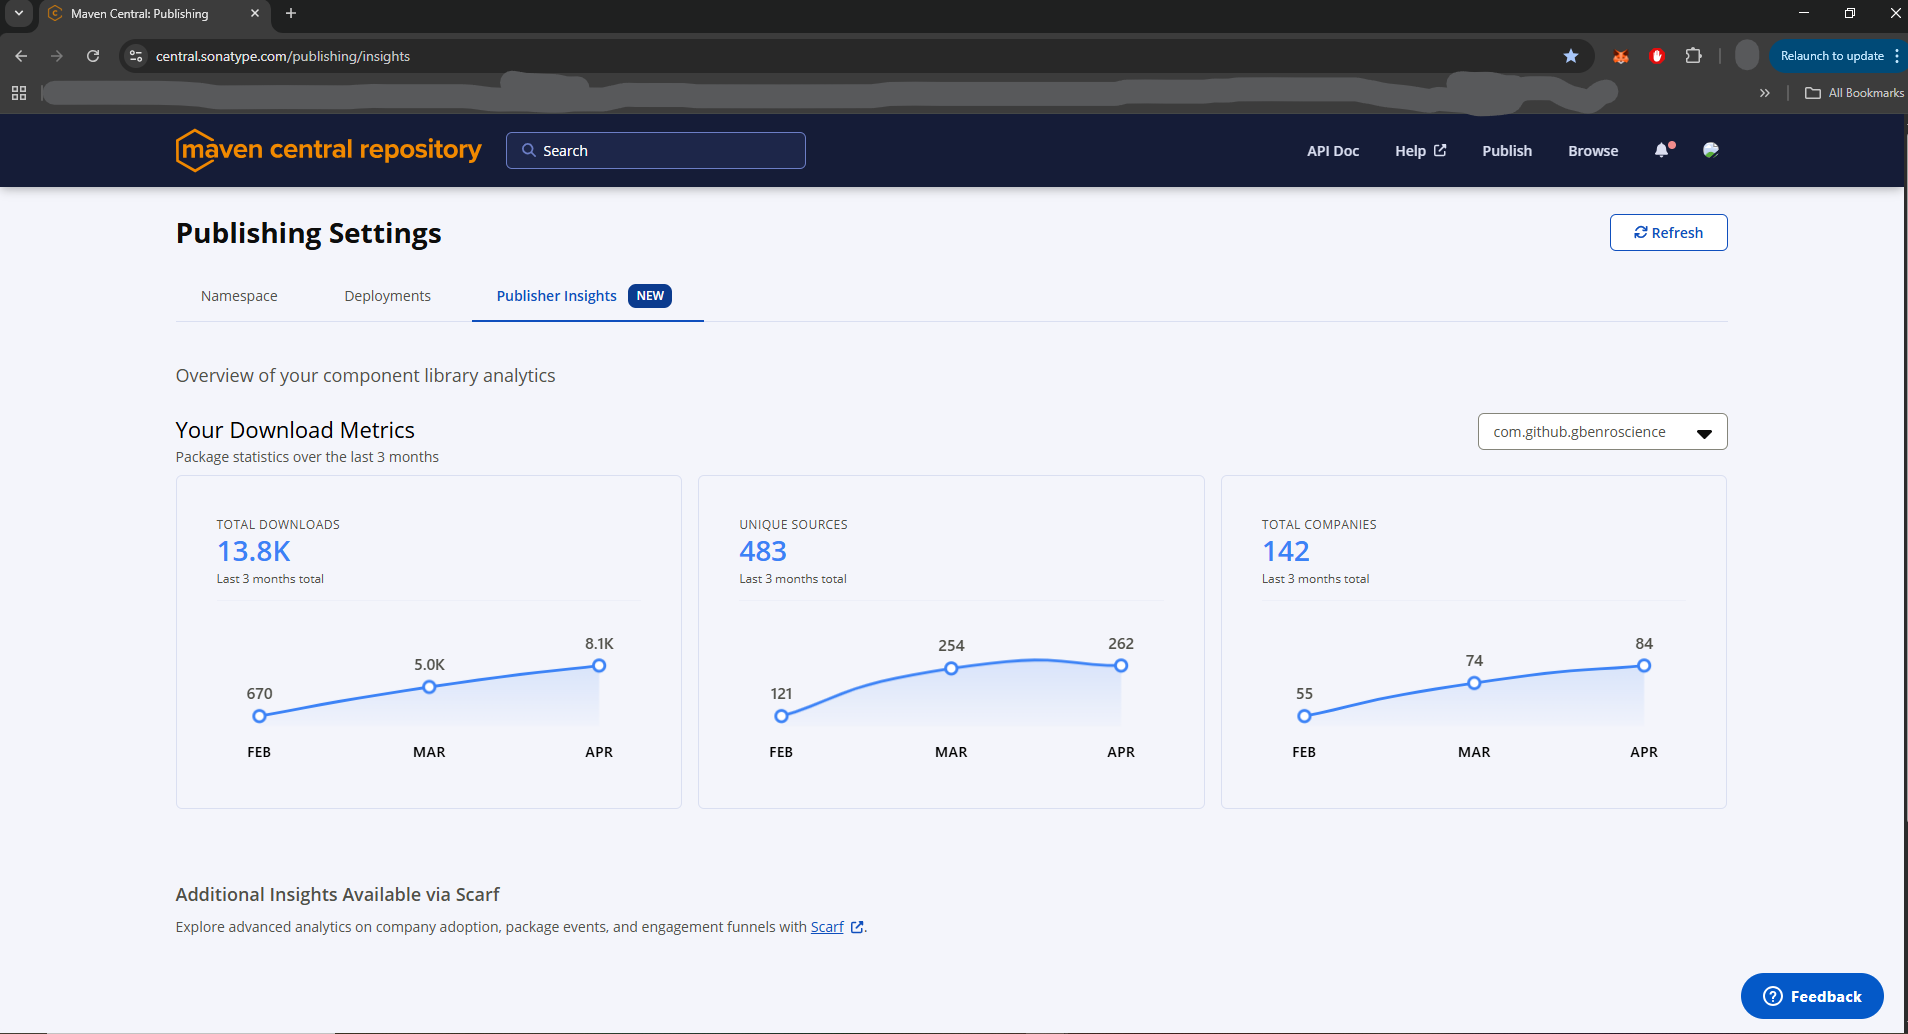
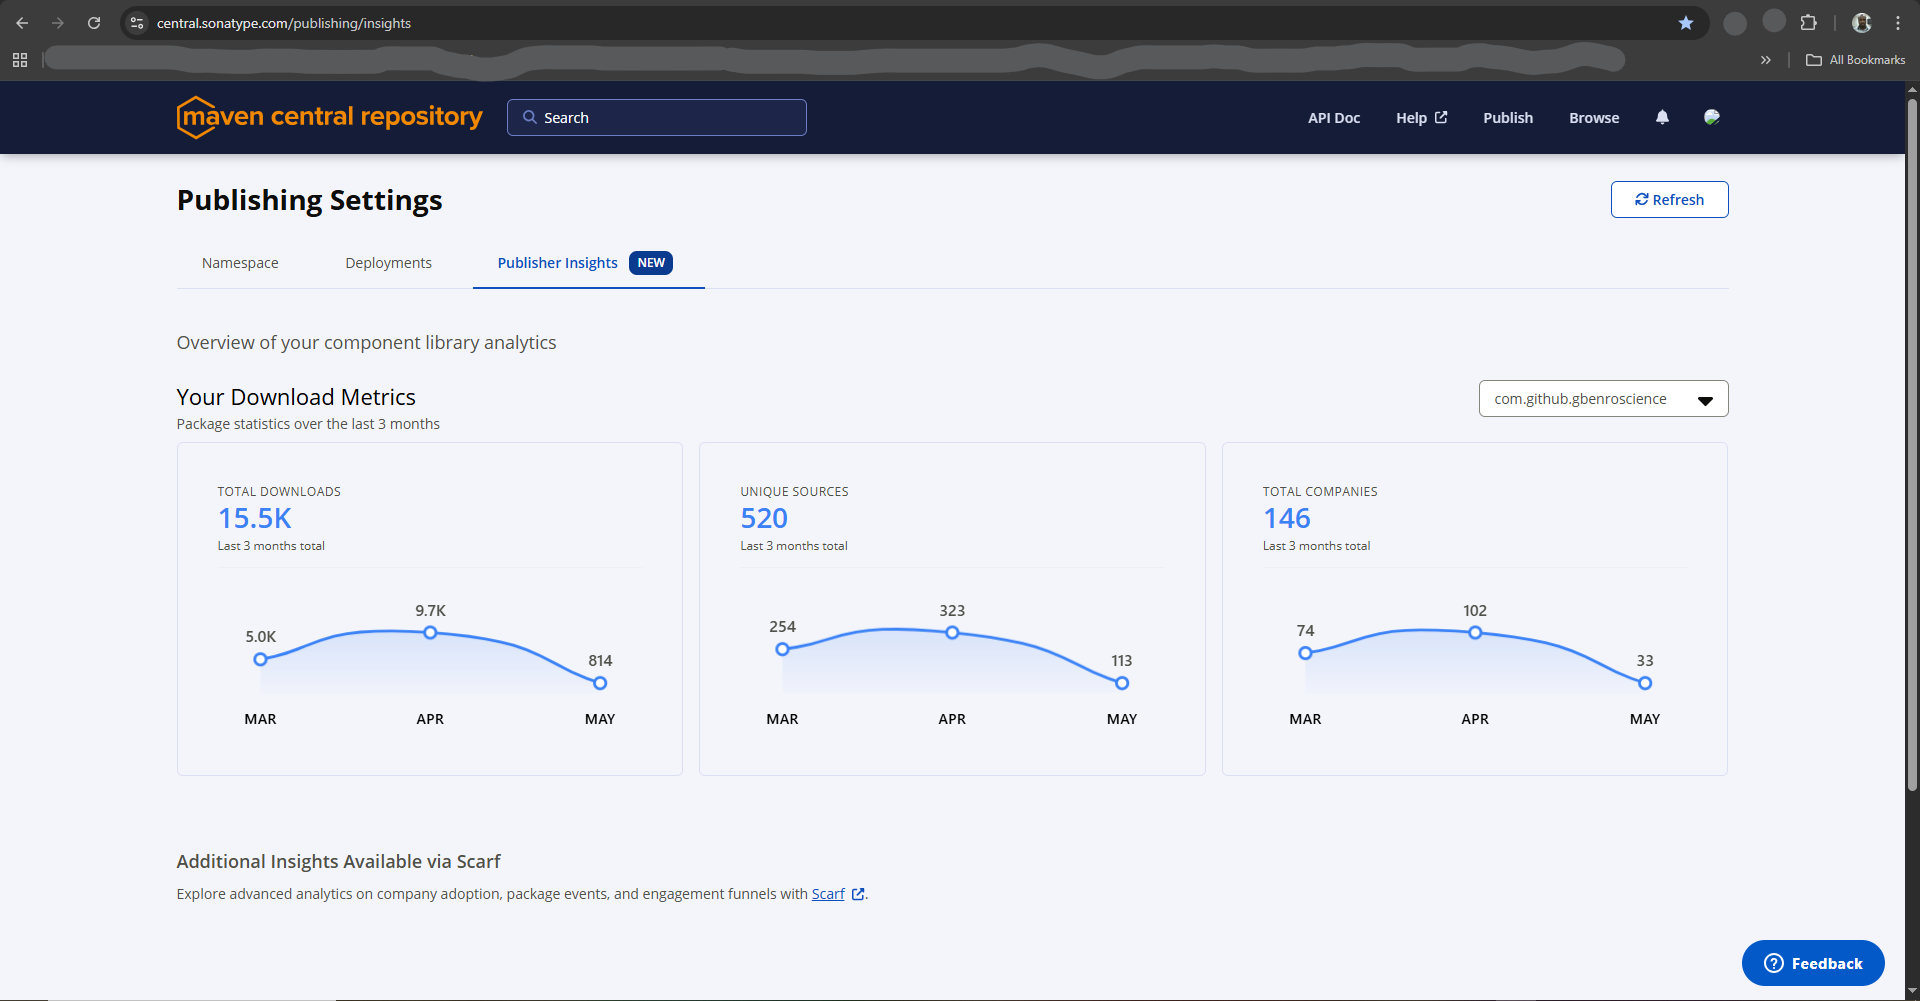
updated monthly-data.png

diff --git a/src/main/java/com/github/gbenroscience/parser/turbo/tools/FlatMatrixTurboBench.java b/src/main/java/com/github/gbenroscience/parser/turbo/tools/FlatMatrixTurboBench.java
@@ -39,6 +39,7 @@ public class FlatMatrixTurboBench {
         System.out.println("PARSERNG FLAT-ARRAY MATRIX TURBO BENCHMARKS");
         System.out.println(rpt);
         checkTurboUserDefinedFunctionsInMatrixMode();
+        checkTurboUserDefinedFunctionsWithAndroidCapableMatrixTurboEvaluatorInMatrixMode();
         checkMatrixInvertPreMulErrors();
         checkMatrixDiv();
         checkMatrixPowerFunction();
@@ -61,6 +62,8 @@ public class FlatMatrixTurboBench {
     }
 
     private static void checkTurboUserDefinedFunctionsInMatrixMode() throws Throwable {
+        
+        System.out.println("=====================MATRIX-BENCHING-checkTurboUserDefinedFunctionsInMatrixMode()============================");
         /*
         String expr="sin(3*x)+cos(5*y)-sin(2*z^2)";
         String fnCall="f(x,y,z)";
@@ -207,6 +210,160 @@ public class FlatMatrixTurboBench {
         System.out.println("=================SPEED-UP-ZONE================");
         System.out.printf("Matrix-Turbo-fn vs Standard-fn:              %.1fx%n", (double) duration1 / duration3);
         System.out.printf("Matrix-Turbo-raw-exp vs Standard-raw-exp     %.1fx%n", (double) duration2 / duration4);
+        System.out.printf("Scalar-Turbo1-fn vs Standard-fn:     %.1fx%n", (double) duration1 / duration5);
+        System.out.printf("Scalar-Turbo1-raw-exp vs Standard-raw-exp:     %.1fx%n", (double) duration2 / duration6);
+        System.out.printf("Scalar-Turbo2-fn vs Standard-fn:     %.1fx%n", (double) duration1 / duration7);
+        System.out.printf("Scalar-Turbo2-raw-exp vs Standard-raw-exp:     %.1fx%n", (double) duration2 / duration8);
+    }
+    private static void checkTurboUserDefinedFunctionsWithAndroidCapableMatrixTurboEvaluatorInMatrixMode() throws Throwable {
+        
+        System.out.println("=====================ANDROID-CAPABLE-MATRIX-BENCHING-checkTurboUserDefinedFunctionsWithAndroidCapableMatrixTurboEvaluatorInMatrixMode()============================");
+        /*
+        String expr="sin(3*x)+cos(5*y)-sin(2*z^2)";
+        String fnCall="f(x,y,z)";
+        String fnDef=fnCall+"="+expr;
+        */
+        
+         String expr = "sin(sqrt(x^2+y^2+z^2))";
+        String fnCall="f(x,y,z)";
+        String fnDef=fnCall+"="+expr;
+        
+        MathExpression baseFnDef = new MathExpression(fnDef+";"+fnCall);
+        AndroidCapableMatrixTurboEvaluator matrixTurboCompilerForBaseFn = new AndroidCapableMatrixTurboEvaluator(baseFnDef);
+        ScalarTurboEvaluator1 turboCompiler1ForFn = new ScalarTurboEvaluator1(baseFnDef);
+        MathExpression rawMathDef = new MathExpression(expr);
+        AndroidCapableMatrixTurboEvaluator matrixTurboCompilerForRawMathExp = new AndroidCapableMatrixTurboEvaluator(rawMathDef);
+        ScalarTurboEvaluator1 turboCompiler1ForRawMathExp = new ScalarTurboEvaluator1(rawMathDef);
+
+        ScalarTurboEvaluator2 turboCompiler2ForFn = new ScalarTurboEvaluator2(baseFnDef);
+        ScalarTurboEvaluator2 turboCompiler2ForRawMathExp = new ScalarTurboEvaluator2(rawMathDef);
+
+        FastCompositeExpression matrixTurboExecForBaseFn = matrixTurboCompilerForBaseFn.compile();
+        FastCompositeExpression matrixTurboExecForRawMathExp = matrixTurboCompilerForRawMathExp.compile();
+        FastCompositeExpression scalarTurboExecForBaseFn = turboCompiler1ForFn.compile();
+        FastCompositeExpression scalarTurboExecForRawMathExp = turboCompiler1ForRawMathExp.compile();
+        FastCompositeExpression scalarTurbo2ExecForBaseFn = turboCompiler2ForFn.compile();
+        FastCompositeExpression scalarTurbo2ExecForRawMathExp = turboCompiler2ForRawMathExp.compile();
+
+        double v = -100;
+        double iterations = 50_000_000;
+
+        System.out.println("=============Execute f(x,y,z)-IN-STD-MODE================");
+        int xSlot = baseFnDef.getVariable("x").getFrameIndex();
+        int ySlot = baseFnDef.getVariable("y").getFrameIndex();
+        int zSlot = baseFnDef.getVariable("z").getFrameIndex();
+        long strt = System.nanoTime();
+        for (int i = 0; i < iterations; i++) {
+            baseFnDef.updateSlot(xSlot, i % 9);
+            baseFnDef.updateSlot(ySlot, i % 8);
+            baseFnDef.updateSlot(zSlot, i % 9 - 2);
+            v = baseFnDef.solveGeneric().scalar;
+        }
+        long duration1 = System.nanoTime() - strt;
+        System.out.println("waste-product of standard-base-fn-exec---" + v);
+
+        System.out.println("=============Execute sin(3*x)+cos(5*y)-sin(2*z^2) -IN-STD-MODE================");
+
+        strt = System.nanoTime();
+        for (int i = 0; i < iterations; i++) {
+            rawMathDef.updateSlot(xSlot, i % 9);
+            rawMathDef.updateSlot(ySlot, i % 8);
+            rawMathDef.updateSlot(zSlot, i % 9 - 2);
+            v = rawMathDef.solveGeneric().scalar;
+        }
+        long duration2 = System.nanoTime() - strt;
+        System.out.println("waste-product of standard-raw-math-exp-exec--- " + v);
+
+        System.out.println("=============BASE-FN-DEF-EXECUTED-MATRIX-TURBO-MODE (f(x,y,z))================");
+
+        double[] vars = {0, 0, 0};
+
+        strt = System.nanoTime();
+        for (int i = 0; i < iterations; i++) {
+            vars[0] = i % 9;
+            vars[1] = i % 8;
+            vars[2] = i % 9 - 2;
+            v = matrixTurboExecForBaseFn.applyScalar(vars);
+        }
+        long duration3 = System.nanoTime() - strt;
+        System.out.println("waste-product of matrix-turbo-base-fn---" + v);
+
+        System.out.println("=============RAW-MATH-EXP-EXECUTED-MATRIX-TURBO-MODE (sin(3*x)+cos(5*y)-sin(2*z^2))================");
+        strt = System.nanoTime();
+        for (int i = 0; i < iterations; i++) {
+            vars[0] = i % 9;
+            vars[1] = i % 8;
+            vars[2] = i % 9 - 2;
+            v = matrixTurboExecForRawMathExp.applyScalar(vars);
+        }
+        long duration4 = System.nanoTime() - strt;
+        System.out.println("waste-product of matrix-turbo-raw-math-exp---" + v);
+
+        System.out.println("=============BASE-FN-DEF-EXECUTED-SCALAR-TURBO-1-MODE================");
+        strt = System.nanoTime();
+        for (int i = 0; i < iterations; i++) {
+            vars[0] = i % 9;
+            vars[1] = i % 8;
+            vars[2] = i % 9 - 2;
+            v = scalarTurboExecForBaseFn.applyScalar(vars);
+        }
+        long duration5 = System.nanoTime() - strt;
+        System.out.println("waste-product of scalar-turbo1-base-fn-exec---" + v);
+
+        System.out.println("=============RAW-MATH-EXP-EXECUTED-SCALAR-TURBO-1-MODE================");
+        strt = System.nanoTime();
+        for (int i = 0; i < iterations; i++) {
+            vars[0] = i % 9;
+            vars[1] = i % 8;
+            vars[2] = i % 9 - 2;
+            v = scalarTurboExecForRawMathExp.applyScalar(vars);
+        }
+        long duration6 = System.nanoTime() - strt;
+        System.out.println("waste-product of scalar-turbo1-raw-exp-exec---" + v);
+
+        System.out.println("=============BASE-FN-DEF-EXECUTED-SCALAR-TURBO-2-MODE================");
+        strt = System.nanoTime();
+        for (int i = 0; i < iterations; i++) {
+            vars[0] = i % 9;
+            vars[1] = i % 8;
+            vars[2] = i % 9 - 2;
+            v = scalarTurbo2ExecForBaseFn.applyScalar(vars);
+        }
+        long duration7 = System.nanoTime() - strt;
+        System.out.println("waste-product of scalar-turbo2-fn---" + v);
+
+        System.out.println("=============RAW-MATH-EXP-EXECUTED-SCALAR-TURBO-2-MODE================");
+        strt = System.nanoTime();
+        for (int i = 0; i < iterations; i++) {
+            vars[0] = i % 9;
+            vars[1] = i % 8;
+            vars[2] = i % 9 - 2;
+            v = scalarTurbo2ExecForRawMathExp.applyScalar(vars);
+        }
+        long duration8 = System.nanoTime() - strt;
+        System.out.println("waste-product of scalar-turbo2-raw-exp-exec---" + v);
+
+        System.out.printf("Expressions: %s and %s %n", baseFnDef.getExpression(), rawMathDef.getExpression());
+        System.out.printf("Value =  %.18f%n", v);
+        System.out.printf("Speed-standard-fn: %.2f ns/op%n", duration1 / iterations);
+        System.out.printf("Speed-standard-raw-exp: %.2f ns/op%n", duration2 / iterations);
+        System.out.printf("Speed-android-capable-matrix-turbo-fn: %.2f ns/op%n", duration3 / iterations);
+        System.out.printf("Speed-android-capable-matrix-turbo-raw-exp: %.2f ns/op%n", duration4 / iterations);
+        System.out.printf("Speed-scalar-turbo1-fn: %.2f ns/op%n", duration5 / iterations);
+        System.out.printf("Speed-scalar-turbo1-raw-exp: %.2f ns/op%n", duration6 / iterations);
+        System.out.printf("Speed-scalar-turbo2-fn: %.2f ns/op%n", duration7 / iterations);
+        System.out.printf("Speed-scalar-turbo2-raw-exp: %.2f ns/op%n", duration8 / iterations);
+        System.out.printf("Throughput-standard-fn: %.2f ops/sec%n", iterations / (duration1 / 1e9));
+        System.out.printf("Throughput-standard-raw-exp: %.2f ops/sec%n", iterations / (duration2 / 1e9));
+        System.out.printf("Throughput-android-capable-matrix-turbo-fn: %.2f ops/sec%n", iterations / (duration3 / 1e9));
+        System.out.printf("Throughput-android-capable-matrix-turbo-raw-exp: %.2f ops/sec%n", iterations / (duration4 / 1e9));
+        System.out.printf("Throughput-scalar-turbo1-fn: %.2f ops/sec%n", iterations / (duration5 / 1e9));
+        System.out.printf("Throughput-scalar-turbo1-raw: %.2f ops/sec%n", iterations / (duration6 / 1e9));
+        System.out.printf("Throughput-scalar-turbo2-fn: %.2f ops/sec%n", iterations / (duration7 / 1e9));
+        System.out.printf("Throughput-scalar-turbo2-raw: %.2f ops/sec%n", iterations / (duration8 / 1e9));
+        System.out.println("=================SPEED-UP-ZONE================");
+        System.out.printf("android-capable-Matrix-Turbo-fn vs Standard-fn:              %.1fx%n", (double) duration1 / duration3);
+        System.out.printf("android-capable-Matrix-Turbo-raw-exp vs Standard-raw-exp     %.1fx%n", (double) duration2 / duration4);
         System.out.printf("Scalar-Turbo1-fn vs Standard-fn:     %.1fx%n", (double) duration1 / duration5);
         System.out.printf("Scalar-Turbo1-raw-exp vs Standard-raw-exp:     %.1fx%n", (double) duration2 / duration6);
         System.out.printf("Scalar-Turbo2-fn vs Standard-fn:     %.1fx%n", (double) duration1 / duration7);